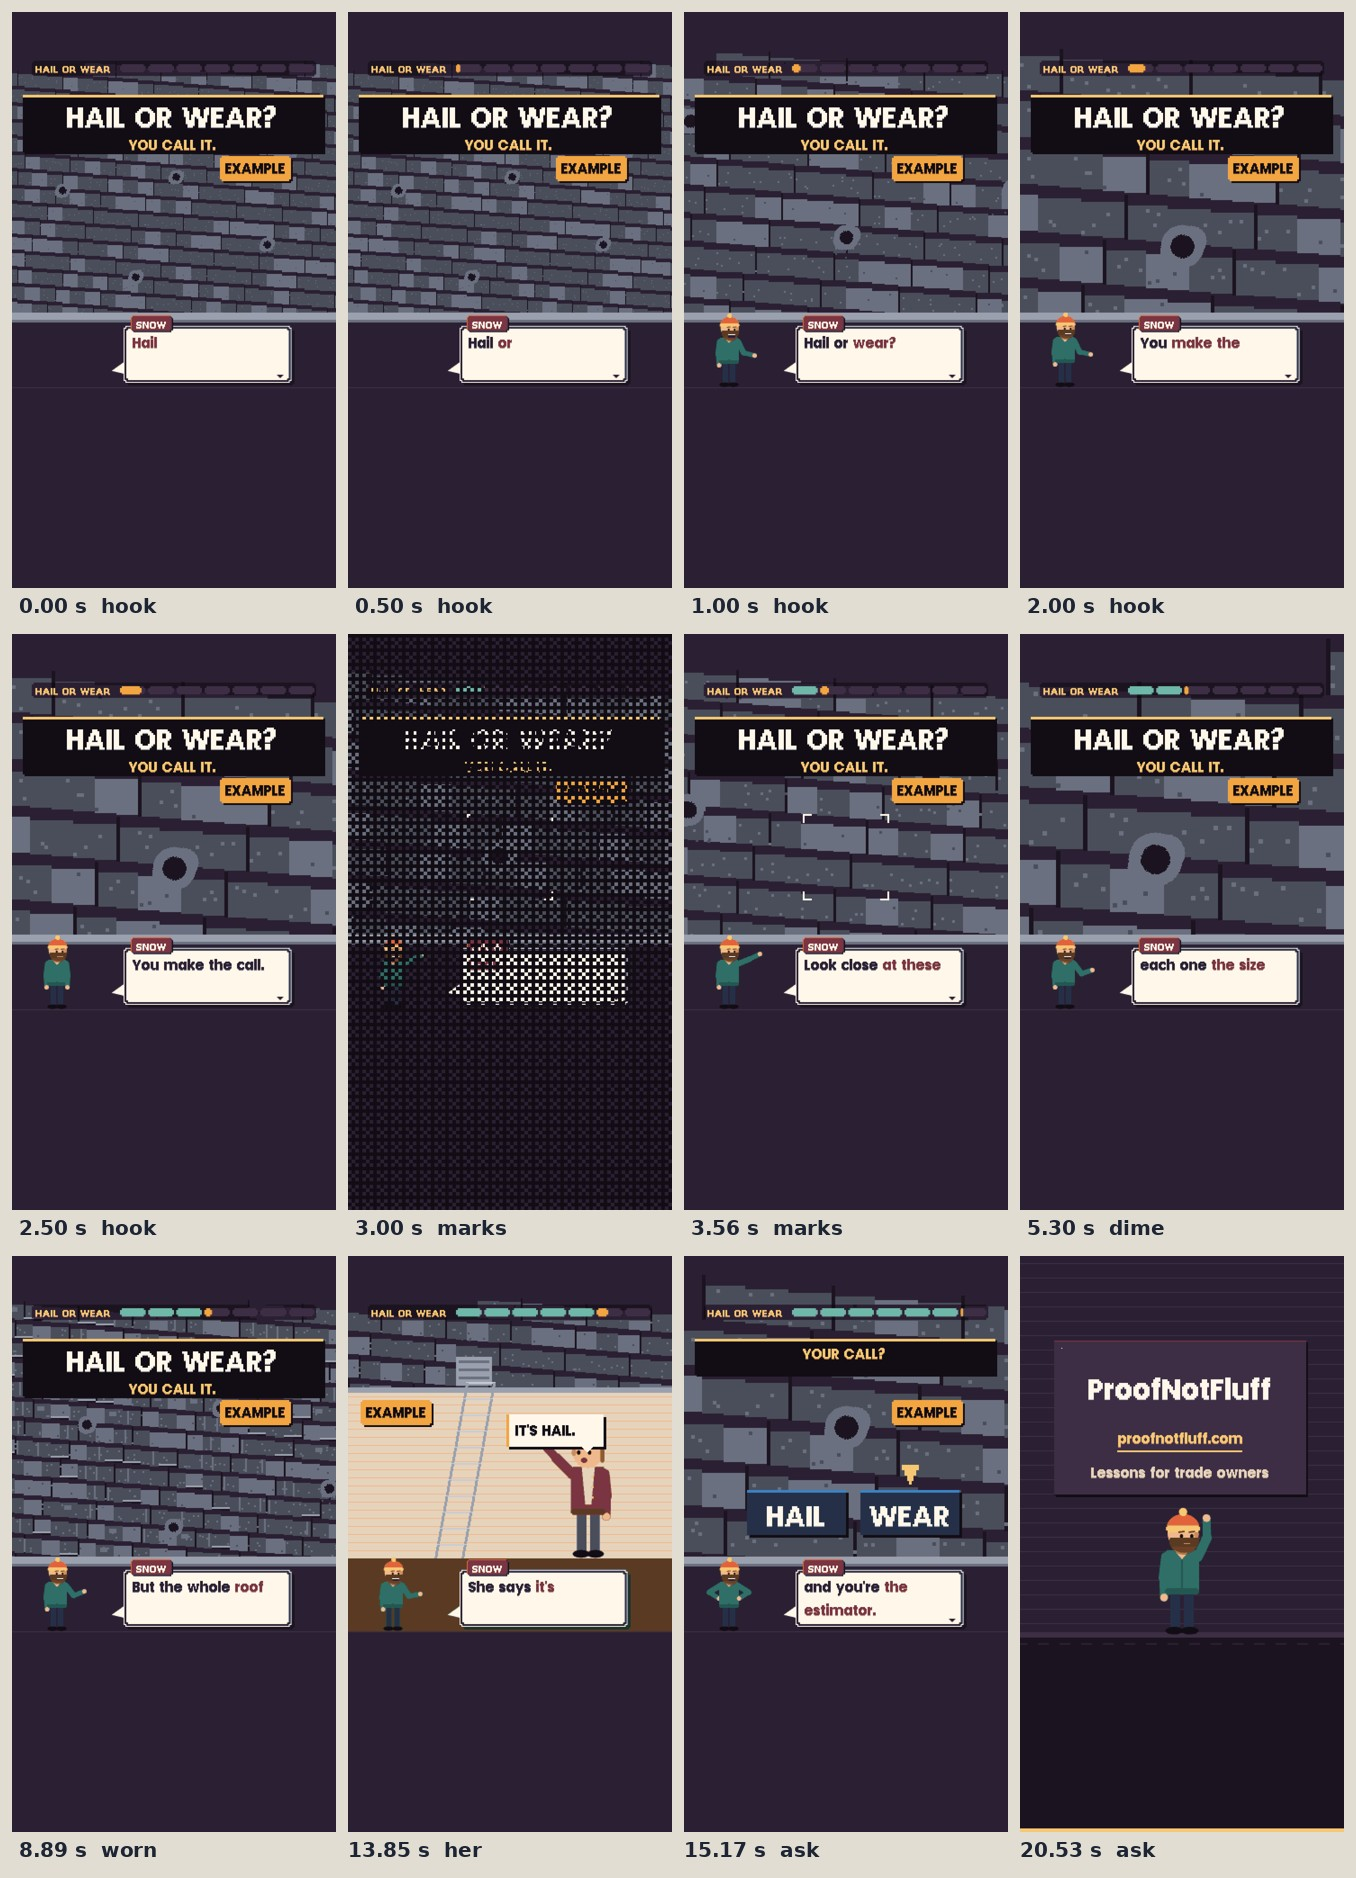
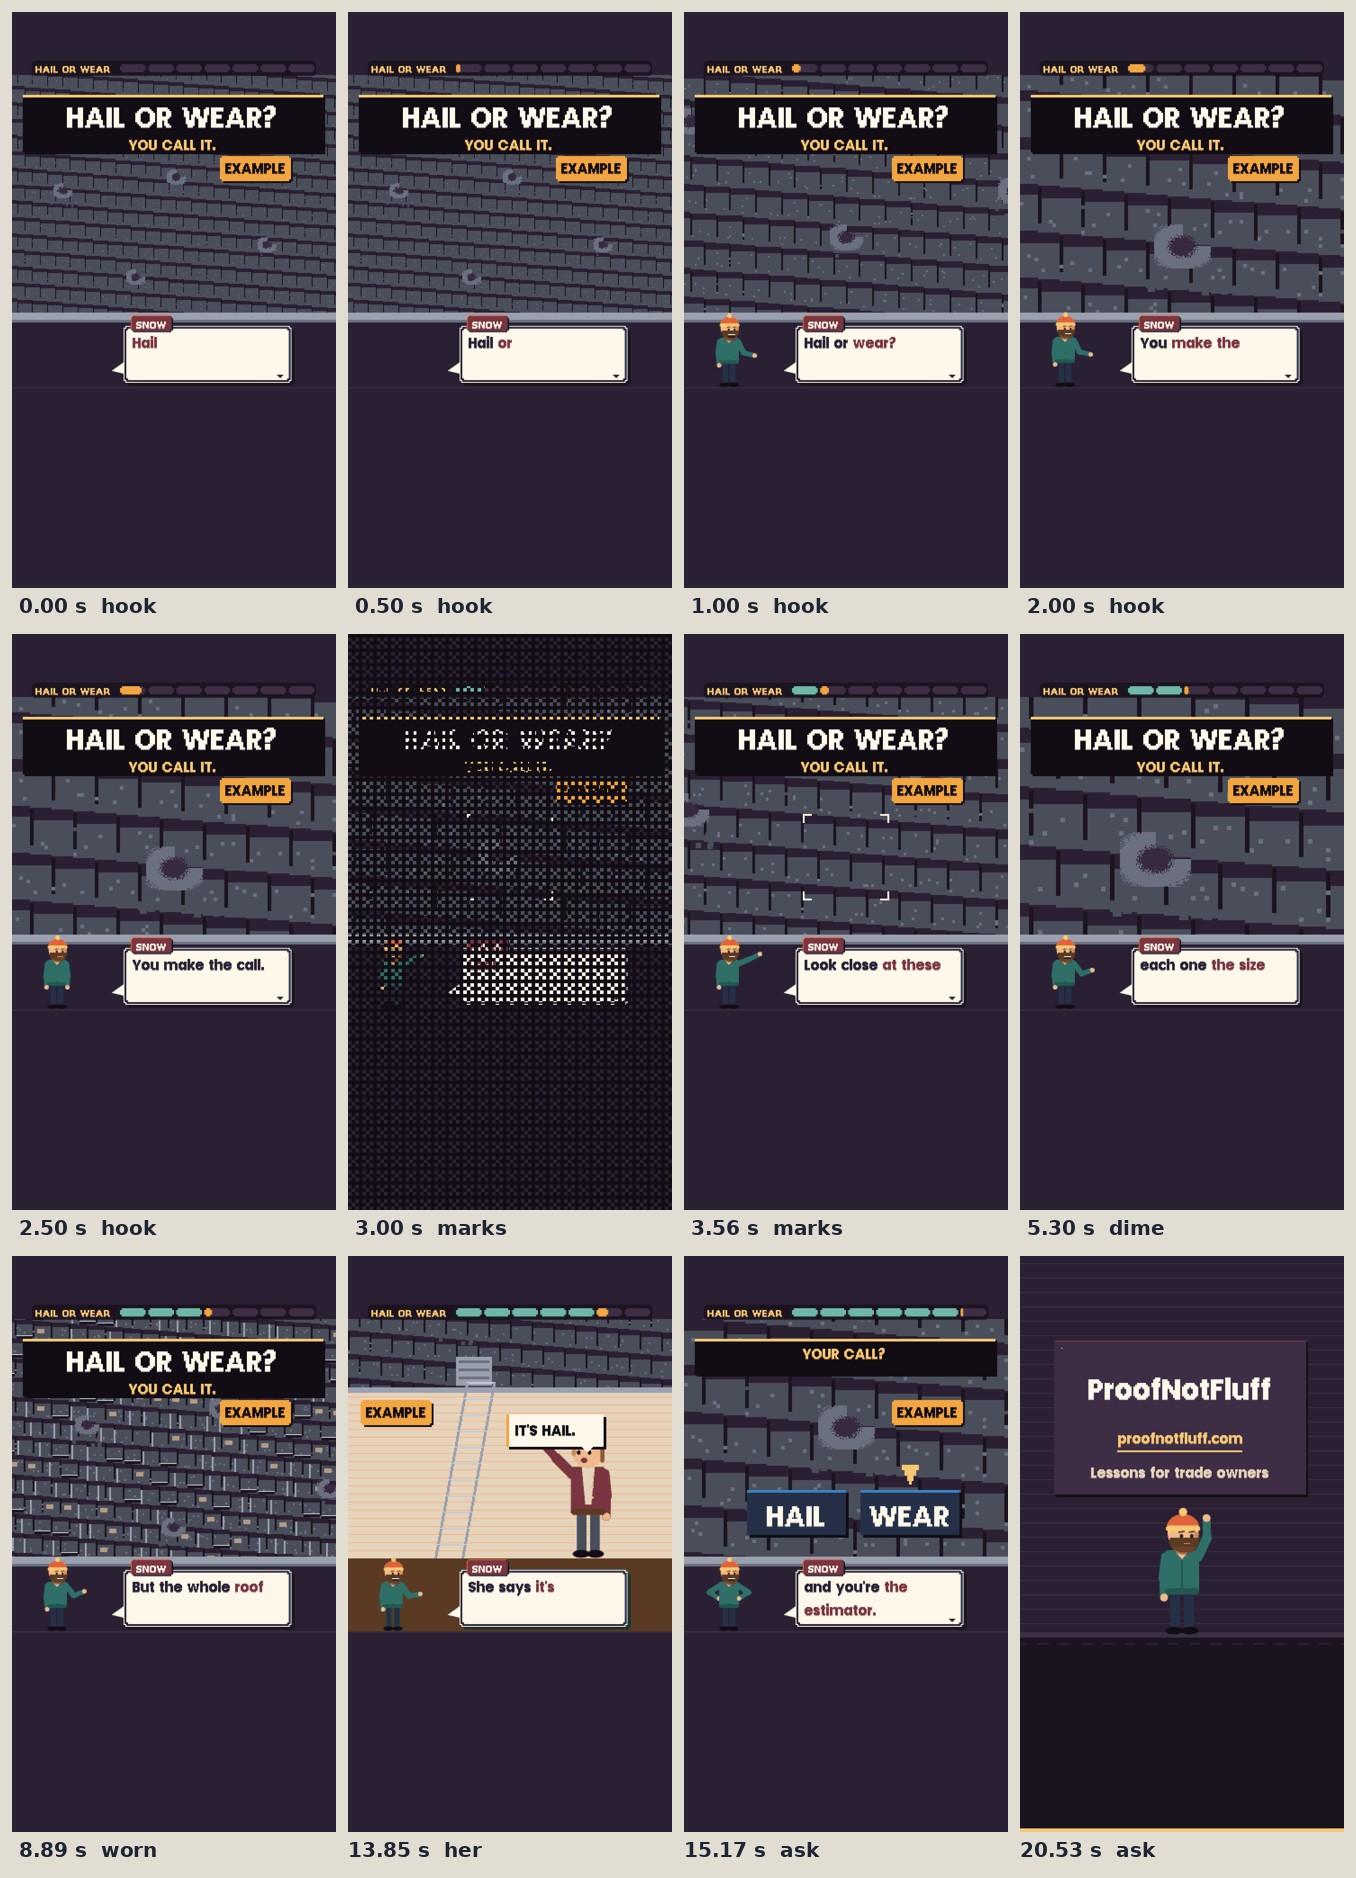
hail-or-wear design r1 fixes: bruises not holes, even tab slots, stronger wear, bent louvers, zoom clipped above the ledge
Claude-Session: https://claude.ai/code/session_01XMn4eLd6rzdTeRfy9ydhTU

diff --git a/video/studio/videos/2026-11-28-hail-or-wear/04_scene/scene.js b/video/studio/videos/2026-11-28-hail-or-wear/04_scene/scene.js
@@ -48,33 +48,37 @@ const fxy = (o) => { const z = o.z || 1, ox = o.ox || 0, oy = o.oy || 0; return 
 const focus = (fx, fy, z, sx, sy) => ({z, ox: fx - sx / z, oy: fy - (sy - 84 - sx * TILTF) / z});
 const field = (d, o = {}) => {
   const {P} = d, {z, X, Y} = fxy(o), u = Math.max(1, Math.round(z));
+  const C = (x, y, w, h, c) => { const y1 = Math.min(334, y + h), y0 = Math.max(70, y); if (y1 > y0) P(x, y0, w, y1 - y0, c); };   /* design r1: clipped above the ledge */
   P(0, 0, 360, 417, '#2A2C33');
   for (let r = -2; r < 34; r++) {
-    const fy = r * 13, off = (r * 6) % 36;
+    const fy = r * 13, off = (r % 2) * 6;   /* design r1: 3-tab strips, a slot every 12, each course offset half a tab */
     for (let fx = -off - 36; fx < 420; fx += 12) {
       const x0 = X(fx), y0 = Y(fx, fy), w = Math.ceil(12 * z);
-      if (x0 > 360 || x0 + w < 0 || y0 > 340 || y0 + 13 * z < 70) continue;
-      const k2 = Math.floor(hash(r * 31 + Math.floor((fx + off) / 12) * 7) * 3);
-      P(x0, y0, w, Math.ceil(13 * z), ['#575B63', '#5E626A', '#52565E'][k2]);
-      P(x0, y0, w, Math.max(1, Math.round(3 * z)), '#2B2D33');   /* the shadow band under the course above */
-      if (((fx + off) / 12) % 3 === 0) P(x0, y0, u, Math.ceil(13 * z), '#1E2026');   /* a tab slot every third */
-      for (let i = 0; i < 4; i++) P(x0 + Math.floor(hash(r * 7 + fx + i) * 11) * z, y0 + (4 + Math.floor(hash(r + fx * 3 + i) * 8)) * z, u, u, ['#6C7079', '#45484F', '#63676F'][i % 3]);
-      if (o.worn) {   /* wear: light streaks downslope, a curled tab edge with its shadow, bare patches spread evenly */
+      if (x0 > 360 || x0 + w < 0 || y0 > 334 || y0 + 13 * z < 70) continue;
+      const strip = Math.floor((fx + off + 36) / 36), shade = ['#575B63', '#5B5F67', '#54585F'][Math.floor(hash(r * 31 + strip * 7) * 3)];
+      C(x0, y0, w, Math.ceil(13 * z), shade);
+      C(x0, y0, w, Math.max(1, Math.round(3 * z)), '#2B2D33');   /* the shadow band under the course above */
+      C(x0, y0, u, Math.ceil(10 * z), '#1E2026');   /* the tab slot */
+      for (let i = 0; i < 4; i++) C(x0 + Math.floor(hash(r * 7 + fx + i) * 11) * z, y0 + (4 + Math.floor(hash(r + fx * 3 + i) * 8)) * z, u, u, ['#6C7079', '#45484F', '#63676F'][i % 3]);
+      if (o.worn) {   /* wear (design r1: two steps lighter, full height, shadows under curls, bare patches spread evenly) */
         const h = hash(r * 13 + fx * 0.7);
-        if (h < 0.35) P(x0 + Math.floor(h * 30) * z % w, y0 + 3 * z, u, 9 * z, '#7E828A');
-        if (h > 0.82) { P(x0, y0 + 11 * z, w, u, '#9AA0AD'); P(x0, y0 + 12 * z, w, u, '#14161A'); }
-        if (Math.abs(h - 0.6) < 0.04) P(x0 + 3 * z, y0 + 5 * z, 5 * z, 3 * z, '#8A7A66');
+        if (h < 0.45) C(x0 + (Math.floor(h * 40) % 10) * z, y0 + 3 * z, Math.max(1, Math.round(1.5 * z)), 10 * z, '#9AA0AD');
+        if (h > 0.78) { C(x0 + u, y0 + 10 * z, w - u, u, '#C9CCD3'); C(x0 + u, y0 + 11 * z, w - u, Math.max(1, Math.round(2 * z)), '#14161A'); }
+        if (Math.abs(h - 0.6) < 0.09) C(x0 + 3 * z, y0 + 5 * z, 5 * z, 3 * z, '#A08A70');
       }
     }
   }
-  FMARKS.forEach(([fx, fy], m) => {
-    const cx = X(fx), cy = Y(fx, fy), r = Math.max(2, Math.round(6 * z));
+  FMARKS.forEach(([fx, fy], m) => {   /* design r1: a bruise, not a hole: an uneven dark grey blot, wider than tall, a ragged edge, */
+    const cx = X(fx), cy = Y(fx, fy), r = Math.max(2, Math.round(6 * z));   /* a lighter rim of bare mat broken on one side, loose granules */
     if (cy < 70 || cy > 345) return;
-    [[0.4, -0.25, 0.7, 0], [-0.35, 0.3, 0.7, 0], [0, 0, 1, 1]].forEach(([dx, dy, k3, core]) => {   /* an irregular bruise: two rim blobs of bare mat, then one dark crushed center (stills r1: not twin holes) */
-      const R = Math.max(2, Math.round(r * k3)), bx = cx + Math.round(dx * r), by = cy + Math.round(dy * r);
-      for (let j = -R; j <= R; j++) for (let i = -R; i <= R; i++) { const q = i * i + j * j + (hash(m * 5 + i * 3 + j) > 0.8 ? R : 0); if (q <= R * R && by + j >= 84 && by + j < 334) d.DOT(bx + i, by + j, core && q <= (R * 0.55) * (R * 0.55) ? '#1E2026' : (core ? '#8A7A66' : '#7A6C5A')); }
-    });
-    for (let i = 0; i < 5; i++) P(cx + Math.round((hash(m * 9 + i) - 0.5) * 4 * r), cy + Math.round(r * (1.1 + hash(m + i * 3) * 0.8)), u, u, '#45484F');   /* loose granules */
+    for (let j = -r; j <= r; j++) for (let i = -Math.round(r * 1.3); i <= Math.round(r * 1.3); i++) {
+      const q = (i / 1.3) * (i / 1.3) + j * j, rag = hash(m * 5 + i * 3 + j * 7) * r * 0.9, y = cy + j;
+      if (y < 84 || y >= 334 || q > (r + rag * 0.3) * (r + rag * 0.3)) continue;
+      const inner = q <= (r * 0.6 - rag * 0.25) * (r * 0.6 - rag * 0.25);
+      if (inner) d.DOT(cx + i, y, (i + j) % 3 ? '#33363D' : '#2A2C32');
+      else if (!(i > 0 && j < 0)) d.DOT(cx + i, y, '#8A7A66');   /* the rim, broken at the upper right */
+    }
+    for (let i = 0; i < 5; i++) C(cx + Math.round((hash(m * 9 + i) - 0.5) * 4 * r), cy + Math.round(r * (1.2 + hash(m + i * 3) * 0.9)), 2 * u, 2 * u, '#45484F');
   });
   P(0, 334, 360, 8, GREY); P(0, 342, 360, 3, '#6B7080'); P(0, 345, 360, 72, '#2B2033');   /* the drip edge and gutter line */
 };
@@ -165,7 +169,7 @@ window.SCENE = {
       const z = T < tG ? 5 : 5 + 2 * eo((T - tG) / 0.5), r = Math.round(6 * z);
       field(d, focus(118, 182, z, 150, 250));
       if (T >= tD && T < tG) { const sl = d.ease(tD, 6, 120); dime(d, 150 + 2 * r + 2 + sl, 250, r); }
-      if (T >= tG) for (let i = 0; i < 18; i++) { const ft = clamp((T - tG - i * 0.04) * 1.8), x = 110 + Math.floor(hash(i) * 120), y = Math.min(330 - (i % 3), 250 + Math.round(ft * 90)); d.P(x, y, 3, 3, i % 2 ? '#8A8E96' : '#6C7079'); }
+      if (T >= tG) for (let i = 0; i < 22; i++) { const ft = clamp((T - tG - i * 0.04) * 1.8), x = 130 + Math.floor(hash(i) * 70), y = Math.min(329 - 6 * (i % 3), 250 + Math.round(ft * 90)); d.P(x, y, 6, 6, i % 2 ? '#8A8E96' : '#6C7079'); d.P(x, y + 5, 6, 1, '#2A2C33'); }   /* design r1: granules twice the size, a pile on the drip edge */
       caption(k, d);
       k.exampleTag(930, 480, {right: true});
       return host(k, null, 0.5);
@@ -190,7 +194,7 @@ window.SCENE = {
         if (i === 0) {   /* a box vent on its strip of roof; the dent is a crescent shadow on a bent louver (design r0) */
           P(x + 6, 220 + up, 148, 44, '#575B63'); for (let r = 0; r < 3; r++) P(x + 6, 220 + r * 14 + up, 148, 3, '#2B2D33');
           P(x + 30, 140 + up, 100, 84, GREY); for (let r = 0; r < 6; r++) P(x + 34, 146 + r * 12 + up, 92, 4, '#6B7080');
-          for (let ii = -12; ii <= 12; ii++) { const yy = Math.round(Math.sqrt(Math.max(0, 144 - ii * ii)) * 0.5); P(x + 84 + ii, 176 + yy + up, 1, 3, '#3A3D44'); P(x + 84 + ii, 174 + yy + up, 1, 1, '#E6E9F0'); }
+          for (let r2 = 2; r2 < 5; r2++) for (let ii = -16; ii <= 16; ii++) { const bow = Math.round(Math.max(0, 16 - Math.abs(ii)) * 0.25), y0 = 146 + r2 * 12 + up; P(x + 80 + ii, y0 - 2, 1, 2 + bow, '#2E3036'); P(x + 80 + ii, y0 + bow, 1, 4, '#6B7080'); P(x + 80 + ii, y0 + 4 + bow, 1, 1, '#E6E9F0'); }   /* design r1: three louvers bent in, shadow above, lit edge below */
         } else {   /* a K-style gutter hung on the roof edge, smooth, with its downspout elbow */
           P(x + 6, 140 + up, 148, 40, '#575B63'); for (let r = 0; r < 3; r++) P(x + 6, 140 + r * 13 + up, 148, 3, '#2B2D33');
           P(x + 6, 180 + up, 148, 6, GREY);
